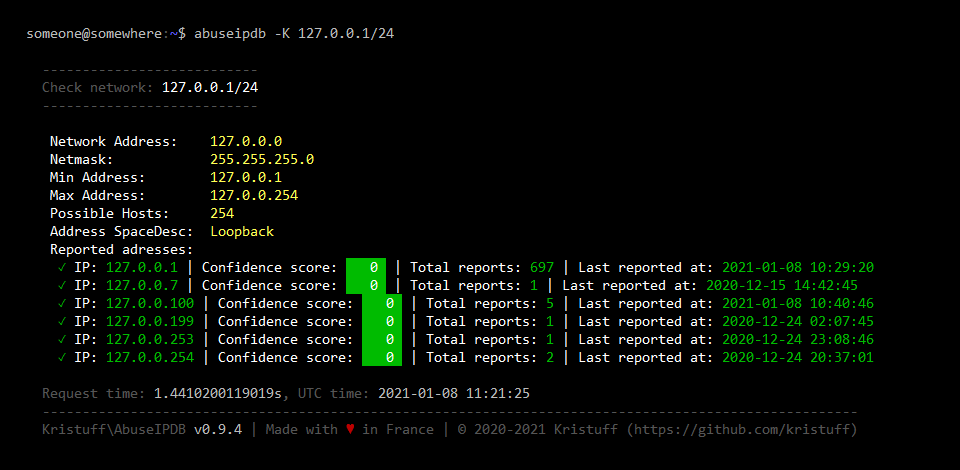
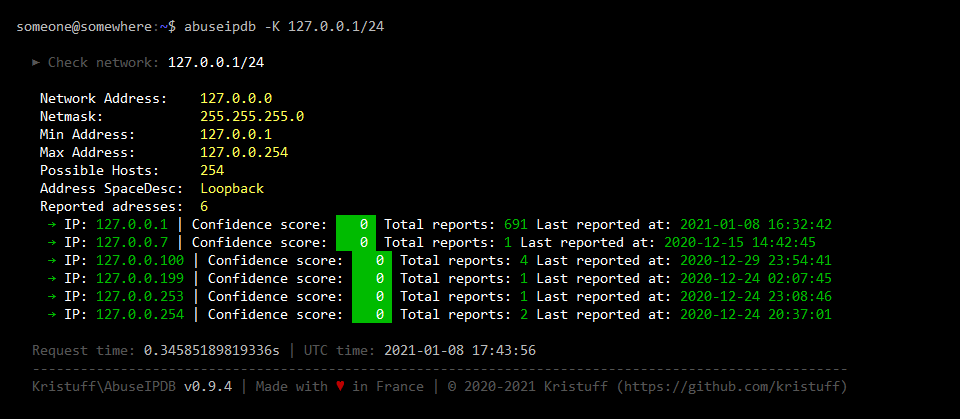
v0.9.5
**Added**
- support for clear address request (remove won report for a given IP address)

**Changed**
- CLI reports formatting

Changed region(s): [[0.0312, 0.1241, 0.9062, 0.9308], [0.0, 0.031, 0.4062, 0.0931]]

diff --git a/README.md b/README.md
@@ -12,7 +12,8 @@ Features
 - Single IP check request **✓** 
 - IP block check request **✓** 
 - Blacklist request **✓** 
-- Single report request **✓** 
+- Single IP report request **✓** 
+- Clear IP address request (remove own reports) **✓**
 - Auto cleaning report comment from sensitive data **✓** 
 - Easy Fail2ban integration **✓** 
 
@@ -78,21 +79,20 @@ Install
 Documentation
 -------------
 
-## 1. Usage
-
-### 1.1 Synopsis:
+### 1. Synopsis:
 
 ```
 abuseipdb -C ip [-d days]
 abuseipdb -K network [-d days]
 abuseipdb -R ip -c categories -m message
+abuseipdb -E ip
 abuseipdb -B [-l limit] [-p]
 abuseipdb -L 
 abuseipdb -G 
 abuseipdb -h 
 ```
 
-### 1.2 Options:
+### 2. Options:
 
 option                        |  Description
 ------------                  | --------  
@@ -102,6 +102,7 @@ option                        |  Description
 -C, --check `ip`              | Performs a check request for the given IP adress. A valid IPv4 or IPv6 address is required.
 -d, --days `days`             | For a check or check-block request, defines the maxAgeDays. Min is 1, max is 365, default is 30.
 -R, --report `ip`             | Performs a report request for the given IP adress. A valid IPv4 or IPv6 address is required.
+-E, --clear `ip`              | Remove own reports for the given IP address. A valid IPv4 or IPv6 address is required.
 -K, --checkblock `network`    | Performs a check-block request for the given network. A valid subnet (v4 or v6) denoted with CIDR notation is required.
 -c, --categories `categories` | For a report request, defines the report category(ies). Categories must be separate by a comma. Some catgeries cannot be used alone. A category can be represented by its shortname or by its id. Use `abuseipdb -L` to print the categories list.
 -m, --message `message`       | For a report request, defines the message to send with report. Message is required for all report requests.
@@ -109,7 +110,7 @@ option                        |  Description
 -l, --limit `limit`           | For a blacklist request, defines the limit. Default is 1000.
 -p, --plaintext               | For a blacklist request, output only ip list as plain text.
 
-## 2. Report categories list
+### 3. Report categories list
 
  ShortName       | Id    | Full name          | Can be alone?  
 -----------------|-------|--------------------|----------------
@@ -143,9 +144,11 @@ abuseipdb -l
 ```
 ![categories)](doc/categories.png)
 
-## 3. Usage
+### 4. Usage
 
 >  As said on [abuseipdb](https://www.abuseipdb.com/check/127.0.0.1), ip `127.0.0.1` is a private IP address you can use for check/report api testing. Make sure you **do not** blacklist an internal IP on your server, otherwise you won't have a good day! 
+
+#### 4.1 Check Single IP
 
 Check the ip `127.0.0.1` (default is on last 30 days): 
 ```
@@ -157,6 +160,8 @@ Check the ip `127.0.0.1` in last 365 days:
 abuseipdb -R 127.0.0.1 -d 365
 ```
 
+#### 4.2 Check IP block
+
 Check the block ip `127.0.0.1`: 
 ```
 abuseipdb -K 127.0.0.1/24
@@ -167,6 +172,7 @@ Check the block ip `127.0.0.1` in last 15 days:
 abuseipdb -K 127.0.0.1/24 -d 15
 ```
 
+#### 4.3 Report single IP
 
 Report the ip `127.0.0.1` for `ssh` and `brute` with message `ssh brute force message`: 
 ```
@@ -178,6 +184,16 @@ abuseipdb  -m 'ssh brute force message' -c ssh,brute  -R 127.0.0.1
 # or with categories id
 abuseipdb -R 127.0.0.1  -c 22,18  -m "ssh brute force message"
 ```
+
+#### 4.4 Remove own report for an IP
+
+Remove own reports for IP `127.0.0.1`:
+
+```
+abuseipdb -E 127.0.0.1
+```
+
+#### 4.5 Download IP blacklist
 
 Get a blacklist of 1000 items:
 ```
@@ -200,6 +216,7 @@ Screenshots
 ![sample-check-bad-ip](doc/sample-check-bad-ip.png)
 ![sample-checkblock-bad-ip](doc/sample-checkblock-bad-ip.png)
 ![sample-report-internal-ip](doc/sample-report-internal-ip.png)
+![sample-sample-clear-internal-ip](doc/sample-clear-internal-ip.png)
 ![sample-blacklist](doc/sample-blacklist.png)
 
 
